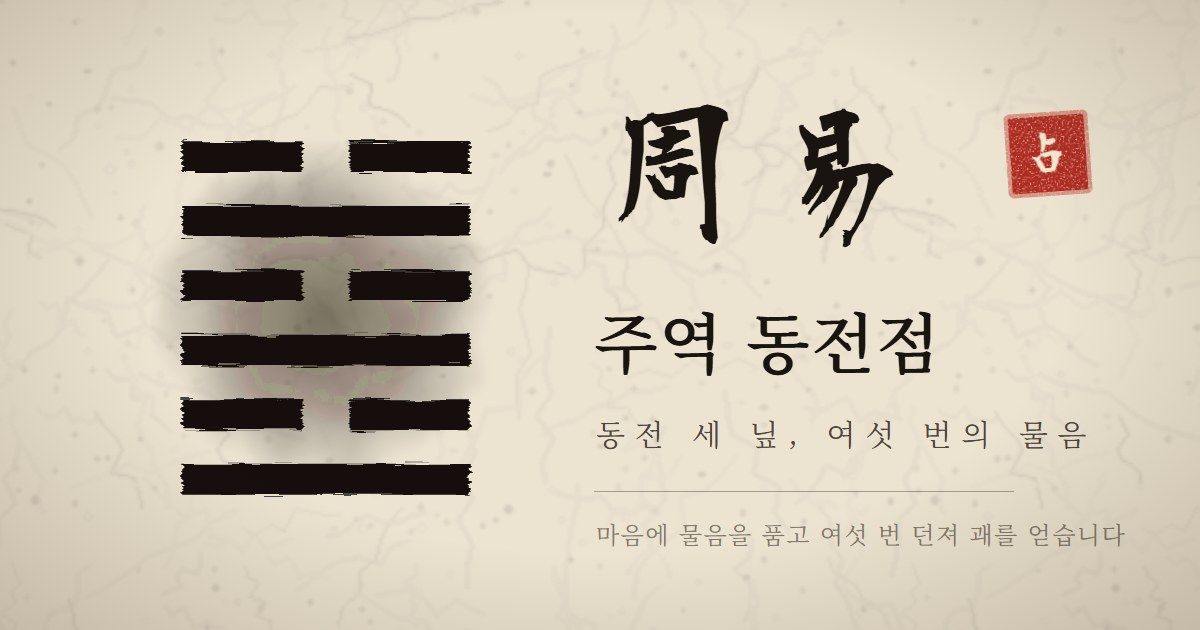
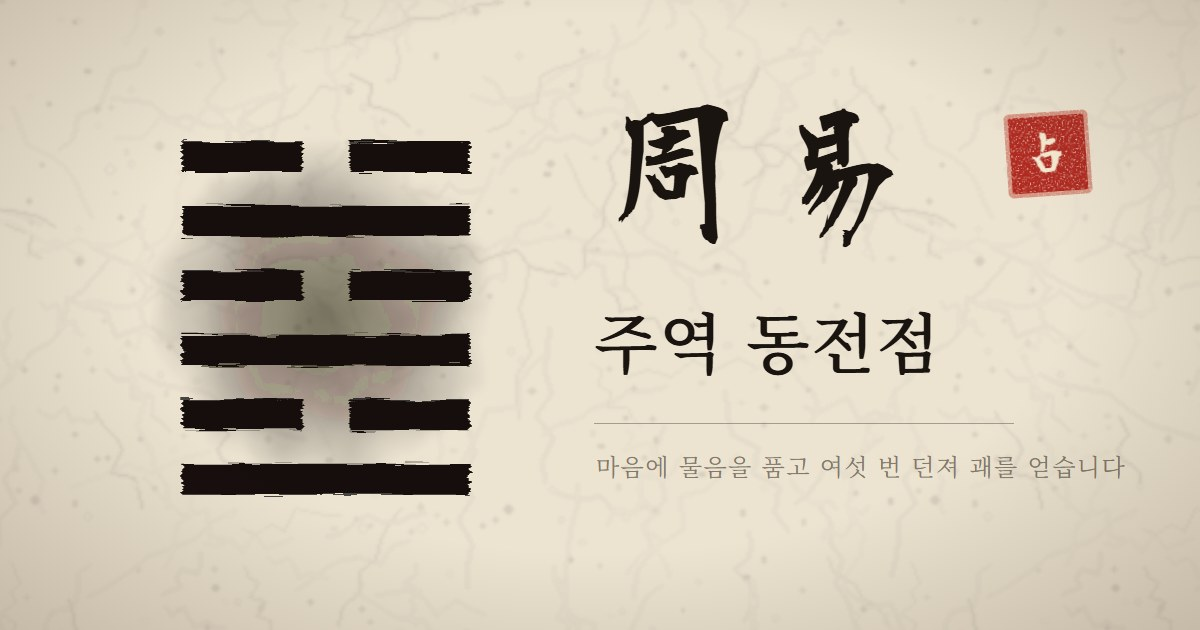
[주역점괘] 인트로·공유 썸네일에서 '동전 세 닢, 여섯 번의 물음' 문구 제거
- 인트로 하단 캡션(intro-caption) 마크업·스타일·타이밍 변수 제거
- 공유 썸네일(og-image.jpg) 캡션 줄 제거 후 재생성

omc-session: 2a0db65e-093b-4af1-ad2d-21a05f515eb2

Changed region(s): [[0.4933, 0.6635, 0.925, 0.7841], [0.4933, 0.8143, 0.925, 0.8746], [0.6783, 0.6635, 0.74, 0.6937]]

diff --git a/src/style.css b/src/style.css
@@ -138,12 +138,11 @@ button:disabled { cursor: default; }
   --d-lines: 0.4s; --stagger: 0.2s; --t-line: 0.36s;
   --d-title: 1.6s; --t-title: 0.85s;
   --d-seal: 2.45s;
-  --d-cap: 2.5s;
 }
 [data-intro='none'] .intro { display: none; }
 [data-intro='short'] .intro {
   --t-ink: 0.5s; --d-lines: 0.05s; --stagger: 0.04s; --t-line: 0.22s;
-  --d-title: 0.25s; --t-title: 0.4s; --d-seal: 0.55s; --d-cap: 0.5s;
+  --d-title: 0.25s; --t-title: 0.4s; --d-seal: 0.55s;
 }
 
 /* 한지 층: 화면보다 훨씬 큰 정사각형을 0.3 배로 줄여 둔다(결 크기는 화면에서 384px 그대로).
@@ -179,7 +178,7 @@ button:disabled { cursor: default; }
   background: radial-gradient(120% 90% at 50% 46%, transparent 52%, rgba(92, 70, 40, 0.24) 100%);
 }
 .intro.is-leaving::before { animation: fade-out calc(var(--leave, 1200ms) * 0.3) ease forwards; }
-.intro-stage, .intro-caption, .intro-skip { z-index: 2; }
+.intro-stage, .intro-skip { z-index: 2; }
 
 .intro-stage {
   position: relative;
@@ -242,17 +241,6 @@ button:disabled { cursor: default; }
   100% { opacity: 1; transform: scale(1) rotate(-3deg); }
 }
 
-.intro-caption {
-  position: absolute;
-  left: 0; right: 0;
-  bottom: calc(76px + var(--safe-b));
-  text-align: center;
-  font-size: var(--t-sm);
-  letter-spacing: 0.24em;
-  color: var(--ink-2);
-  opacity: 0;
-  animation: fade-in 0.8s ease var(--d-cap) forwards;
-}
 @keyframes fade-in { to { opacity: 1; } }
 
 .intro-skip {
@@ -273,7 +261,7 @@ button:disabled { cursor: default; }
    같은 키프레임 보간으로 3D 카메라가 위에서 손 앞 시점으로 내려앉는다(stage.playEntrance). 글씨는 살짝 커지며 먼저 옅어진다. */
 .intro.is-leaving { pointer-events: none; }
 .intro.is-leaving .intro-stage { animation: recede calc(var(--leave, 1200ms) * 0.5) cubic-bezier(0.33, 1, 0.68, 1) forwards; }
-.intro.is-leaving .intro-caption, .intro.is-leaving .intro-skip { animation: fade-out calc(var(--leave, 1200ms) * 0.4) ease forwards; }
+.intro.is-leaving .intro-skip { animation: fade-out calc(var(--leave, 1200ms) * 0.4) ease forwards; }
 @keyframes recede { to { transform: translateY(-3vh) scale(1.12); opacity: 0; } }
 .intro.is-leaving.is-fast .intro-stage { animation-name: fade-out; }
 
@@ -282,8 +270,7 @@ button:disabled { cursor: default; }
 [data-intro='reduced'] .intro-ink { opacity: 0.9; }
 [data-intro='reduced'] .intro-lines .ln { stroke-dashoffset: 0; }
 [data-intro='reduced'] .intro-title { clip-path: none; }
-[data-intro='reduced'] .intro-seal, [data-intro='reduced'] .intro-caption { opacity: 1; transform: rotate(-3deg); }
-[data-intro='reduced'] .intro-caption { transform: none; }
+[data-intro='reduced'] .intro-seal { opacity: 1; transform: rotate(-3deg); }
 [data-intro='reduced'] .intro.is-leaving { animation: fade-out var(--leave, 300ms) ease forwards; }
 @keyframes fade-out { to { opacity: 0; } }
 

diff --git a/scripts/og/og.html b/scripts/og/og.html
@@ -27,7 +27,6 @@
     box-shadow: inset 0 0 0 4px rgba(246,234,210,0.55);
   }
   .ko-title { font-size: 66px; font-weight: 600; letter-spacing: 0.02em; margin: 26px 0 0 4px; }
-  .caption { font-size: 30px; color: #4f453b; letter-spacing: 0.32em; margin: 18px 0 0 6px; }
   .rule { width: 420px; height: 1px; background: rgba(79,69,59,0.45); margin: 30px 0 0 4px; }
   .sub { font-size: 24px; color: #85786a; letter-spacing: 0.06em; margin: 18px 0 0 6px; }
 
@@ -82,7 +81,6 @@
   <div class="title-col">
     <p class="title">周易</p>
     <p class="ko-title">주역 동전점</p>
-    <p class="caption">동전 세 닢, 여섯 번의 물음</p>
     <div class="rule"></div>
     <p class="sub">마음에 물음을 품고 여섯 번 던져 괘를 얻습니다</p>
   </div>

diff --git a/index.html b/index.html
@@ -101,7 +101,6 @@
         <span class="seal intro-seal hanja" aria-hidden="true">占</span>
       </div>
     </div>
-    <p class="intro-caption">동전 세 닢, 여섯 번의 물음</p>
     <button id="intro-skip" class="intro-skip" type="button">건너뛰기</button>
   </div>
 
